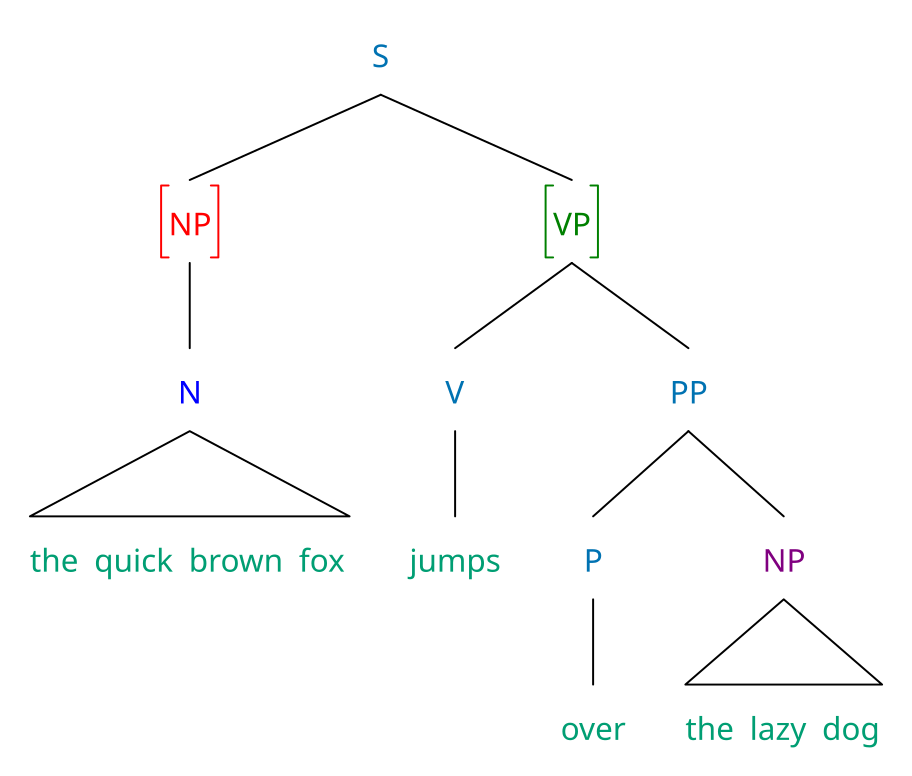
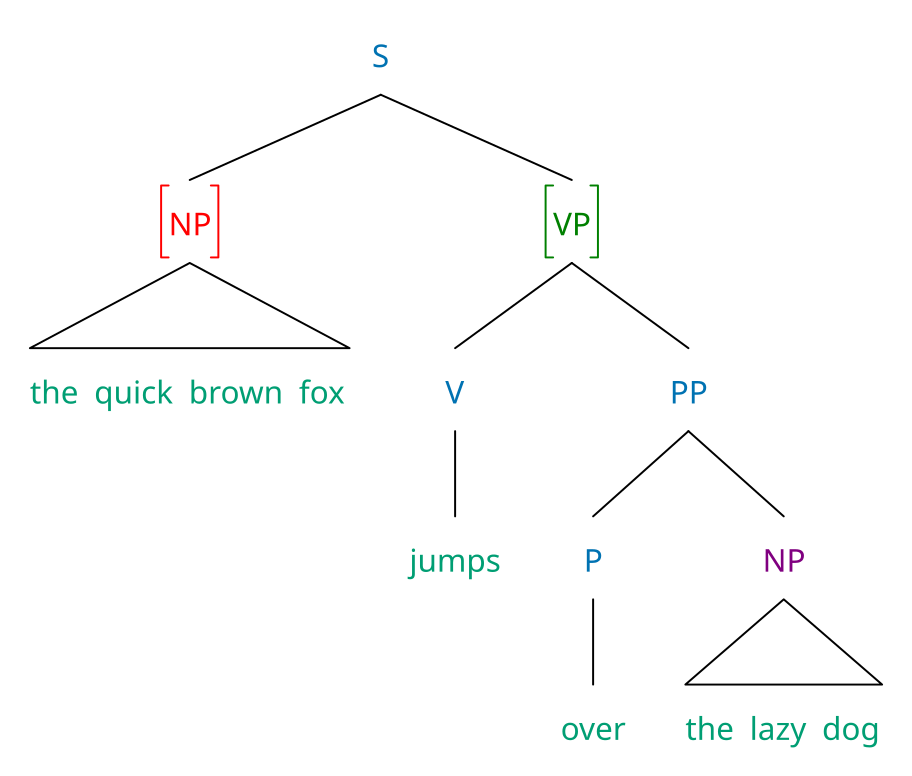
Fix example 056: Remove intermediate N node
The phrase "the quick brown fox" now connects directly to NP
instead of through an unnecessary intermediate N node.

diff --git a/docs/_examples/056.md b/docs/_examples/056.md
@@ -13,9 +13,7 @@ font: "Noto Sans"
 ---
 ```
 [S
-  [#@red:NP
-    [^@blue:N the quick brown fox]
-  ]
+  [#@red:NP the quick brown fox]
   [#@green:VP
     [V jumps]
     [PP